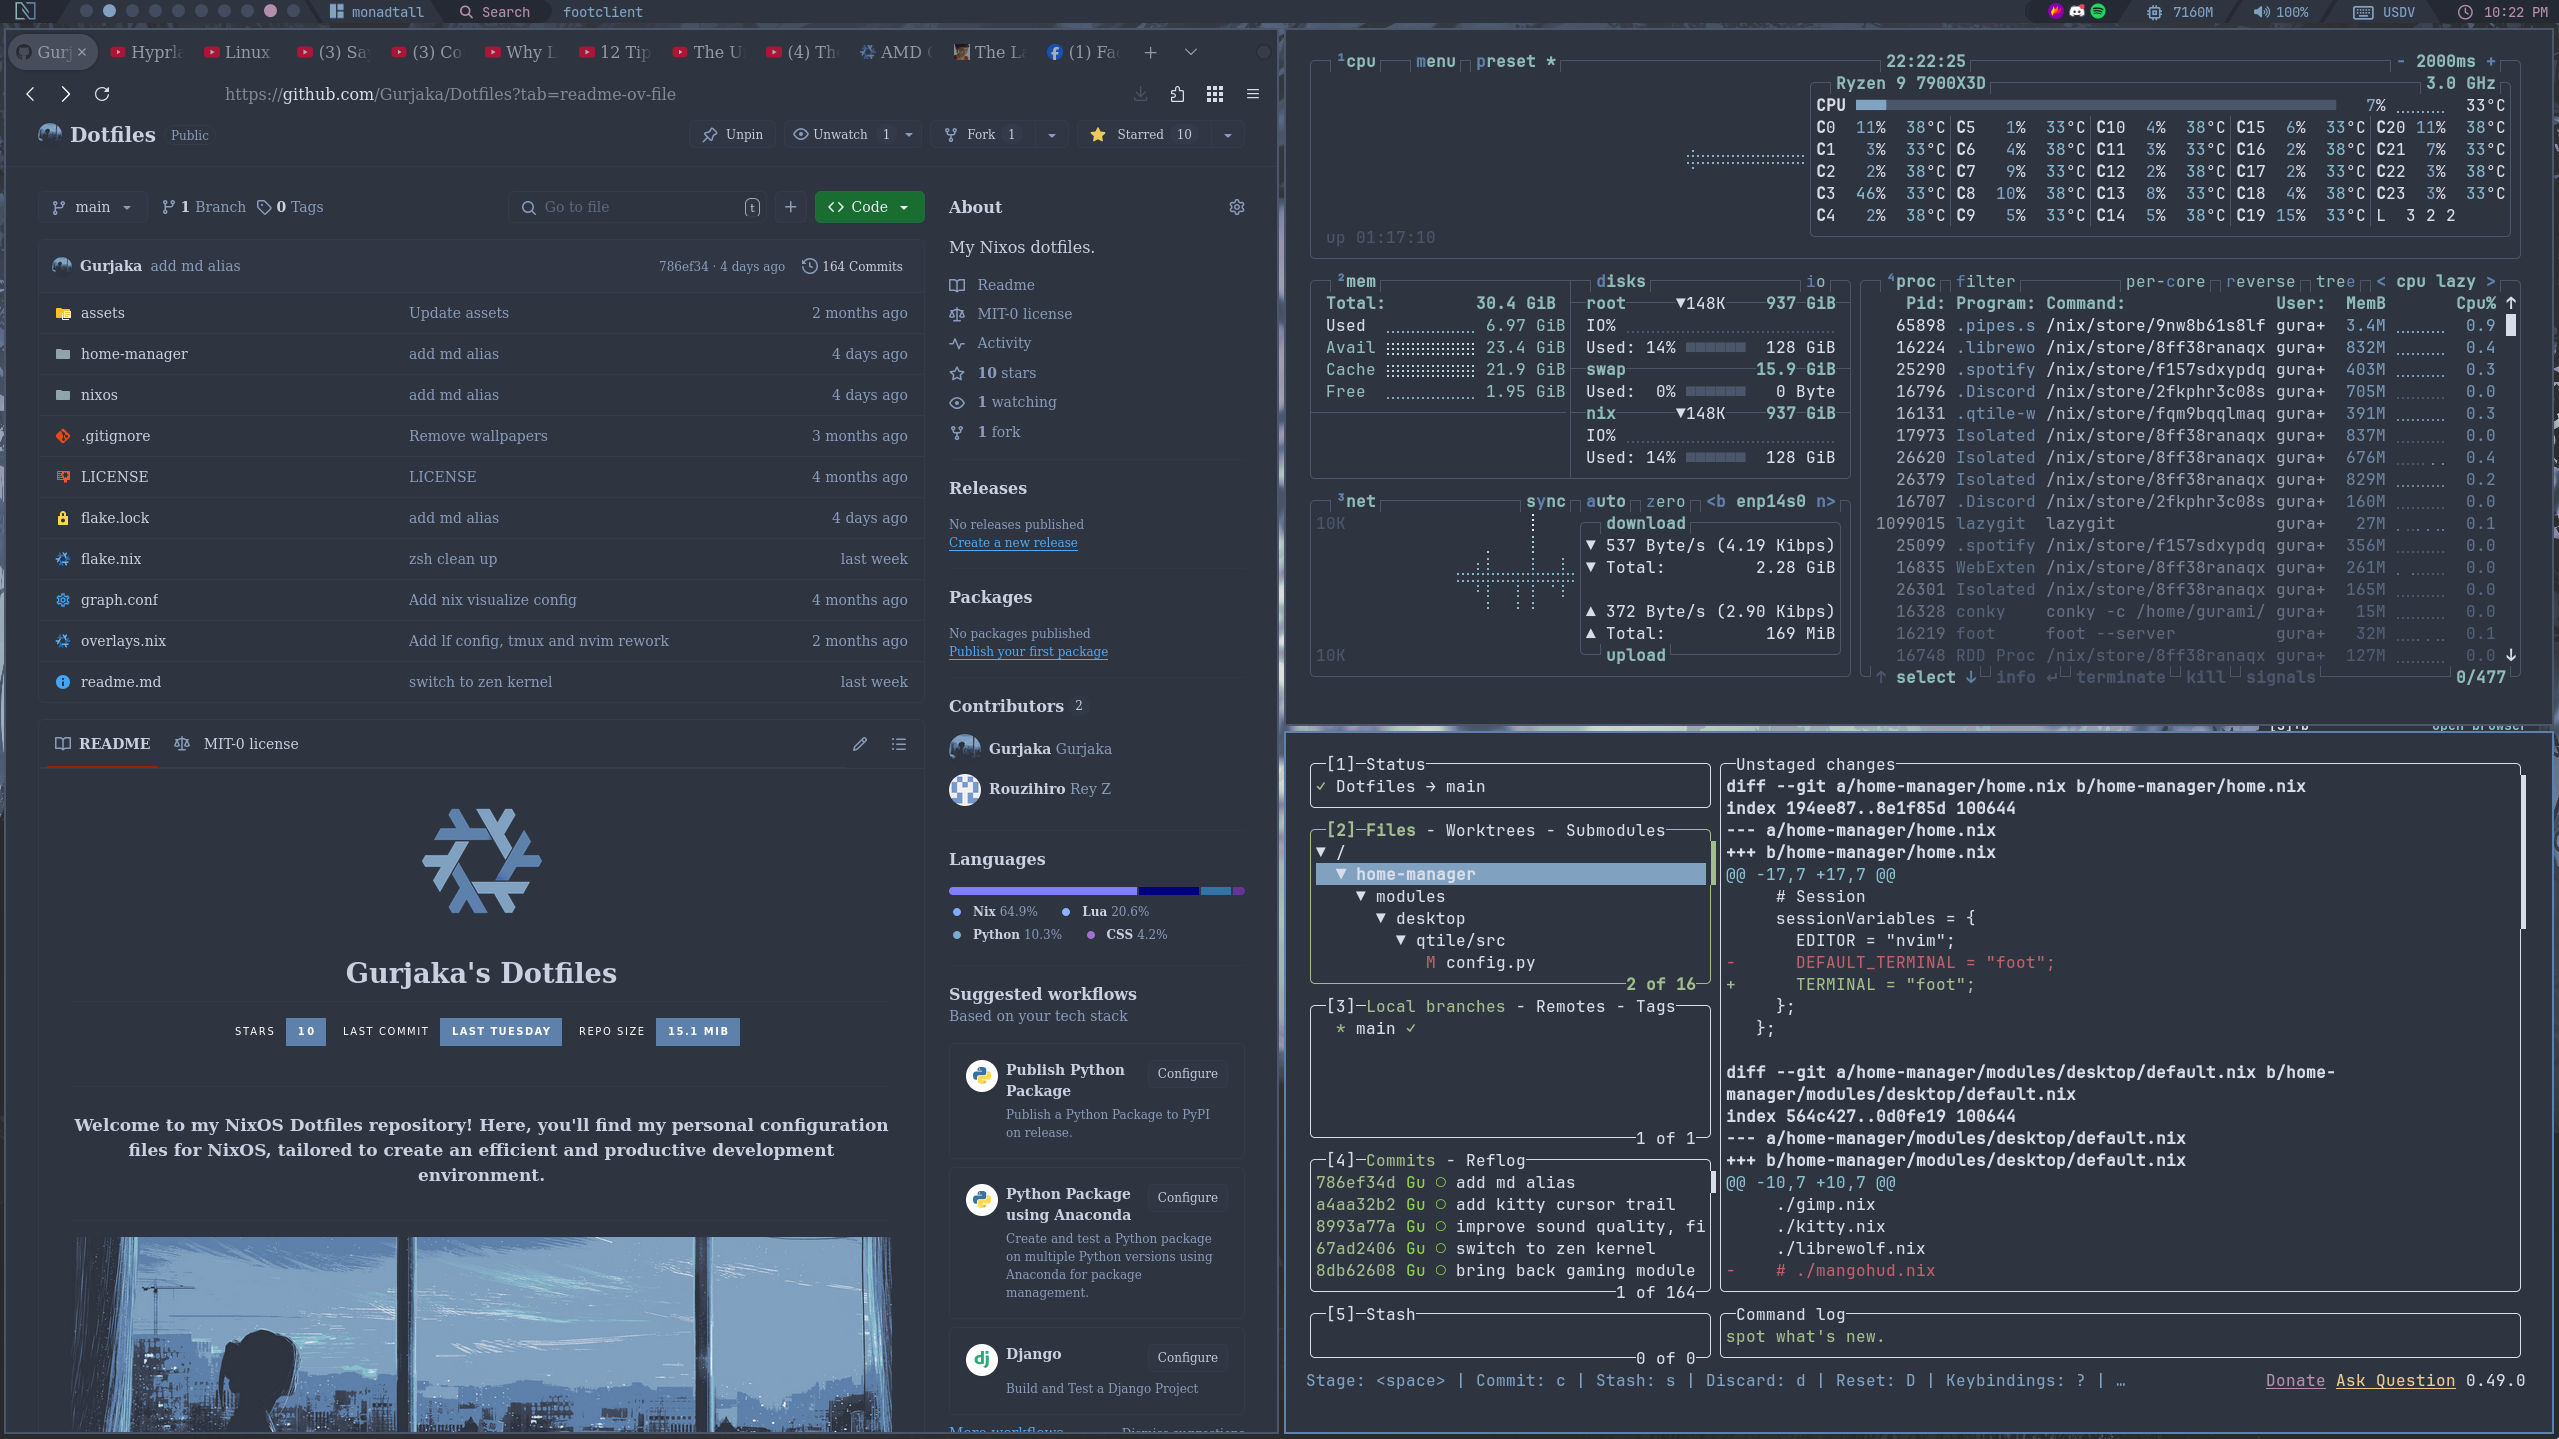
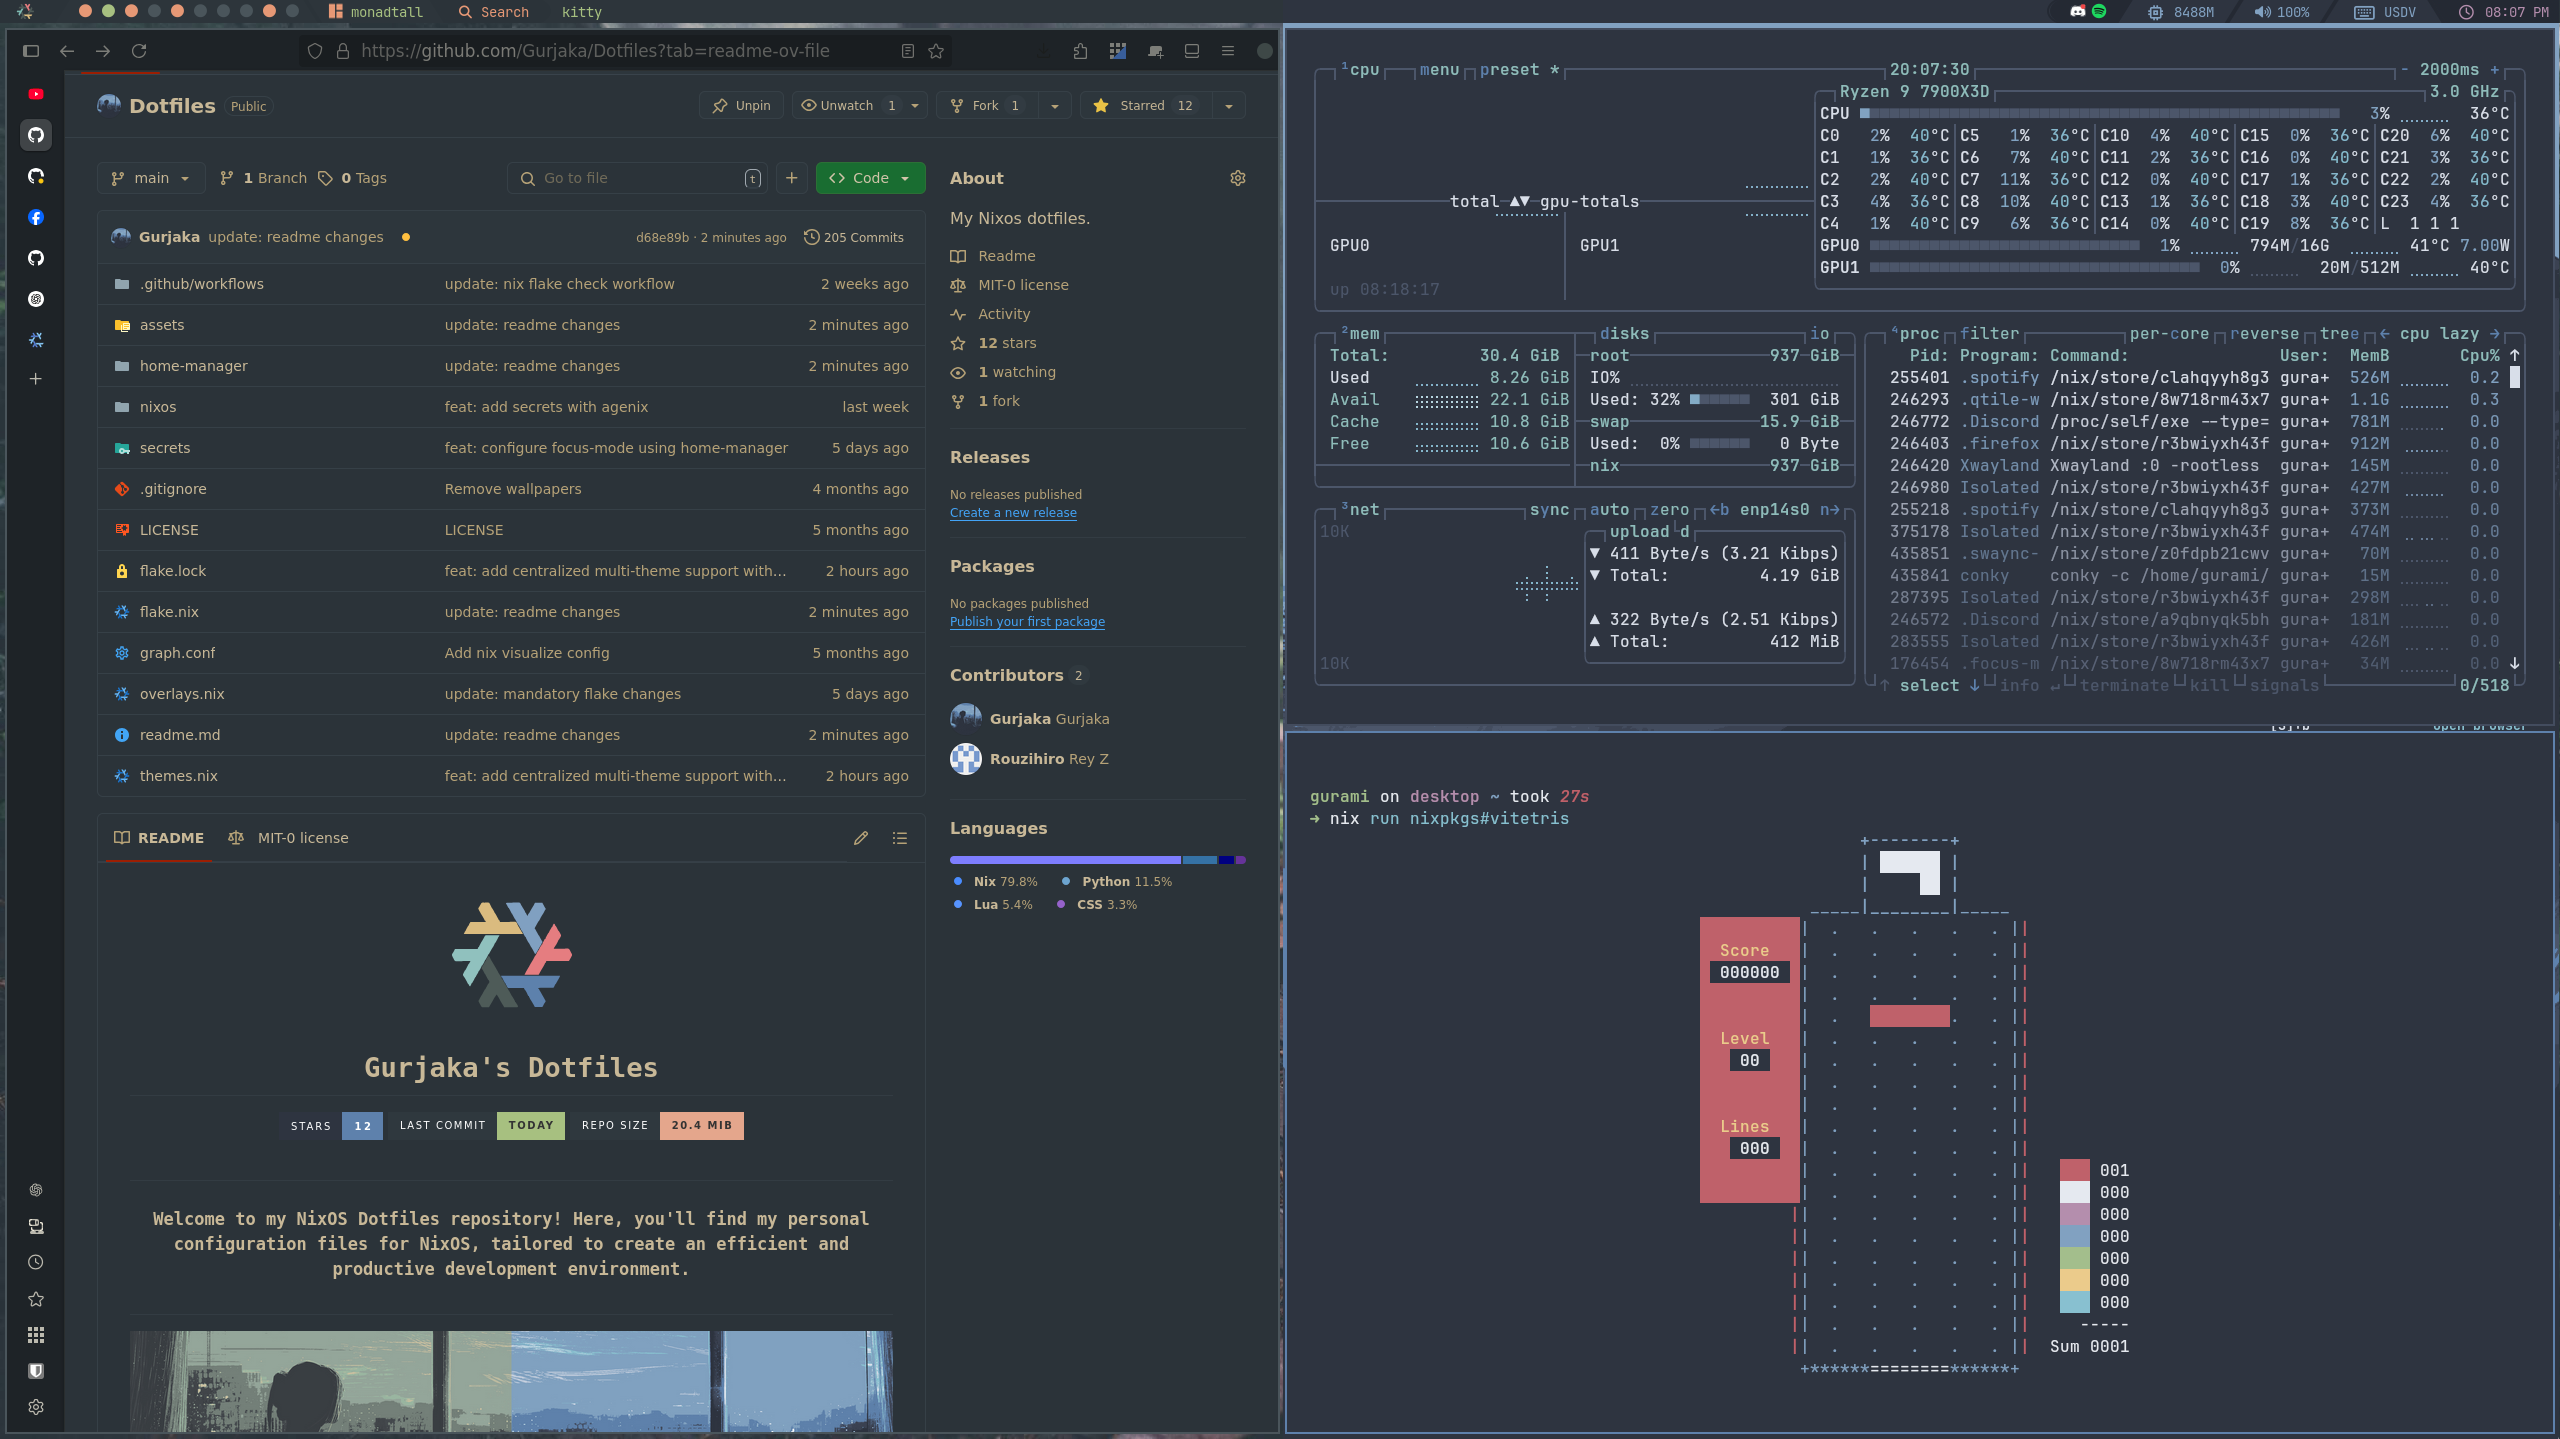
update: readme changes

diff --git a/readme.md b/readme.md
@@ -1,10 +1,12 @@
 <div align="center">
 
-<img alt="Nix-Snowflake" src="assets/nix-snowflake-nord.svg" width="120px"/>
+<img alt="Nix-Snowflake" src="assets/nix-snowflake.svg" width="120px"/>
 
 # <samp>Gurjaka's Dotfiles</samp>
 
-![GitHub Repo stars](https://img.shields.io/github/stars/Gurjaka/Dotfiles?style=for-the-badge&labelColor=2e3440&color=5e81ac) ![GitHub last commit](https://img.shields.io/github/last-commit/Gurjaka/Dotfiles?style=for-the-badge&labelColor=2e3440&color=5e81ac) ![GitHub repo size](https://img.shields.io/github/repo-size/Gurjaka/Dotfiles?style=for-the-badge&labelColor=2e3440&color=5e81ac)
+![GitHub Repo stars](https://img.shields.io/github/stars/Gurjaka/Dotfiles?style=for-the-badge&labelColor=2e3440&color=5e81ac)
+![GitHub last commit](https://img.shields.io/github/last-commit/Gurjaka/Dotfiles?style=for-the-badge&labelColor=2f383e&color=a7c080)
+![GitHub repo size](https://img.shields.io/github/repo-size/Gurjaka/Dotfiles?style=for-the-badge&labelColor=2f383e&color=e4a68c)
 
 #
 ### <samp>Welcome to my NixOS Dotfiles repository! Here, you'll find my personal configuration files for NixOS, tailored to create an efficient and productive development environment.</samp>
@@ -26,9 +28,13 @@ git clone https://github.com/Gurjaka/Dotfiles.git ~/
 > Note: Don't forget to edit the appropriate settings such as username & hardware configuration
 > You can use `cp /etc/nixos/hardware-configuration.nix ~/Dotfiles/nixos/`
 
-`III` Rebuild your system (Change HOSTNAME): 
+`III` Rebuild your system (Change HOSTNAME/USERNAME): 
 ```bash
-sudo nixos-rebuild switch --flake ~/Dotfiles#HOSTNAME
+sudo nixos-rebuild switch --flake ~/Dotfiles#HOSTNAME # Apply system configuration
+
+# Apply home configuration
+nix-shell -p home-manager;
+home-manager switch --flake ~/Dotfiles#USERNAME 
 ```
 > Note: If your browser of choice is Vivaldi, you need to open Vivaldi atleast once to generate it's settings, and rebuild afterwards in order to apply preconfigured settings
 
@@ -63,35 +69,37 @@ sudo nixos-rebuild switch --flake ~/Dotfiles#HOSTNAME
 
 ## 🎨 <samp>Colors</samp>
 
-<table align="right">
+<table align="center">
+<br><br><br><br><br><br><br>
   <tr>
     <td align="center">
       <samp>
-        This color scheme is inspired from
-        <a href="https://www.nordtheme.com/">Nord</a>
+        This configuration blends the <a href="https://www.nordtheme.com/">❄ Nord</a>
+        theme's icy calmness with the earthy tones of <a href="https://github.com/sainnhe/everforest">🌲 Everforest</a>.
       </samp>
     </td>
   </tr>
 </table>
 
-
-<p align="center">
-  <a href="https://www.nordtheme.com/docs/colors-and-palettes" target="_blank">
-    <picture>
-      <source srcset="https://raw.githubusercontent.com/nordtheme/assets/main/static/images/artworks/coloring/cards.svg?sanitize=true" width="100%" alt="Nord color palette cards" media="(prefers-color-scheme: dark), (prefers-color-scheme: no-preference)" />
-    <img src="https://raw.githubusercontent.com/nordtheme/assets/main/static/images/artworks/coloring/cards.svg?sanitize=true" width="100%" alt="Nord color palette cards" />
-    </picture>
-  </a>
-</p>
-
-<p align="center">
-  <a href="https://www.nordtheme.com/ports" target="_blank">
-    <picture>
-      <source srcset="https://raw.githubusercontent.com/nordtheme/assets/main/static/images/artworks/ports/nordify.svg?sanitize=true" width="100%" alt="Nord port project illustration" media="(prefers-color-scheme: light), (prefers-color-scheme: no-preference)" />
-    <img src="https://raw.githubusercontent.com/nordtheme/assets/main/static/images/artworks/ports/nordify.svg?sanitize=true" width="100%" alt="Nord port project illustration" />
-    </picture>
-  </a>
-</p>
+<div align="center">
+  <table>
+    <tr>
+      <td align="center">
+        <a href="https://www.nordtheme.com/docs/colors-and-palettes" target="_blank">
+          <img src="https://raw.githubusercontent.com/nordtheme/assets/main/static/images/artworks/coloring/cards.svg?sanitize=true" width="400px" alt="Nord color palette cards"/>
+        </a>
+        <p><samp>Nord Palette</samp></p>
+      </td>
+      <td align="center">
+      <br><br><br><br>
+        <a href="https://github.com/sainnhe/everforest" target="_blank">
+          <img src="https://user-images.githubusercontent.com/58662350/214382352-cd7a4f63-e6ef-4575-82c0-a8b72aa37c0c.png" width="400px" alt="Everforest color palette"/>
+        </a>
+        <p><samp>Everforest Palette</samp></p>
+      </td>
+    </tr>
+  </table>
+</div>
 
 <p align="center">
   <picture>
